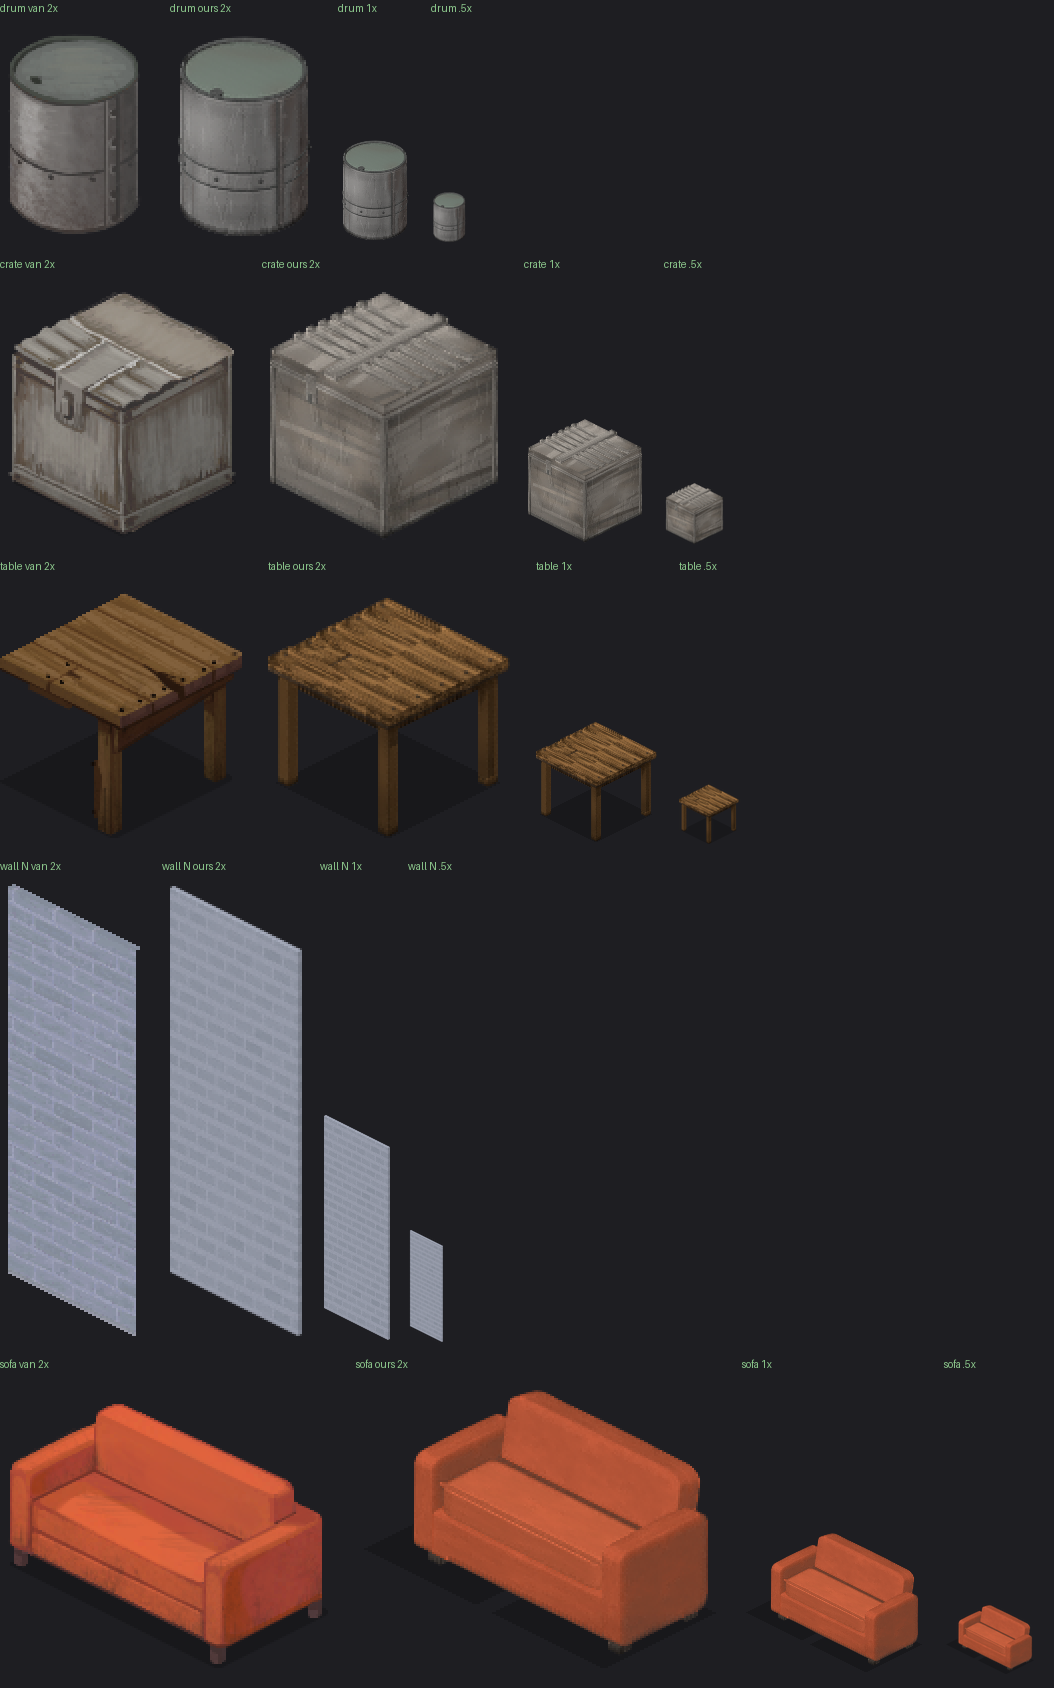
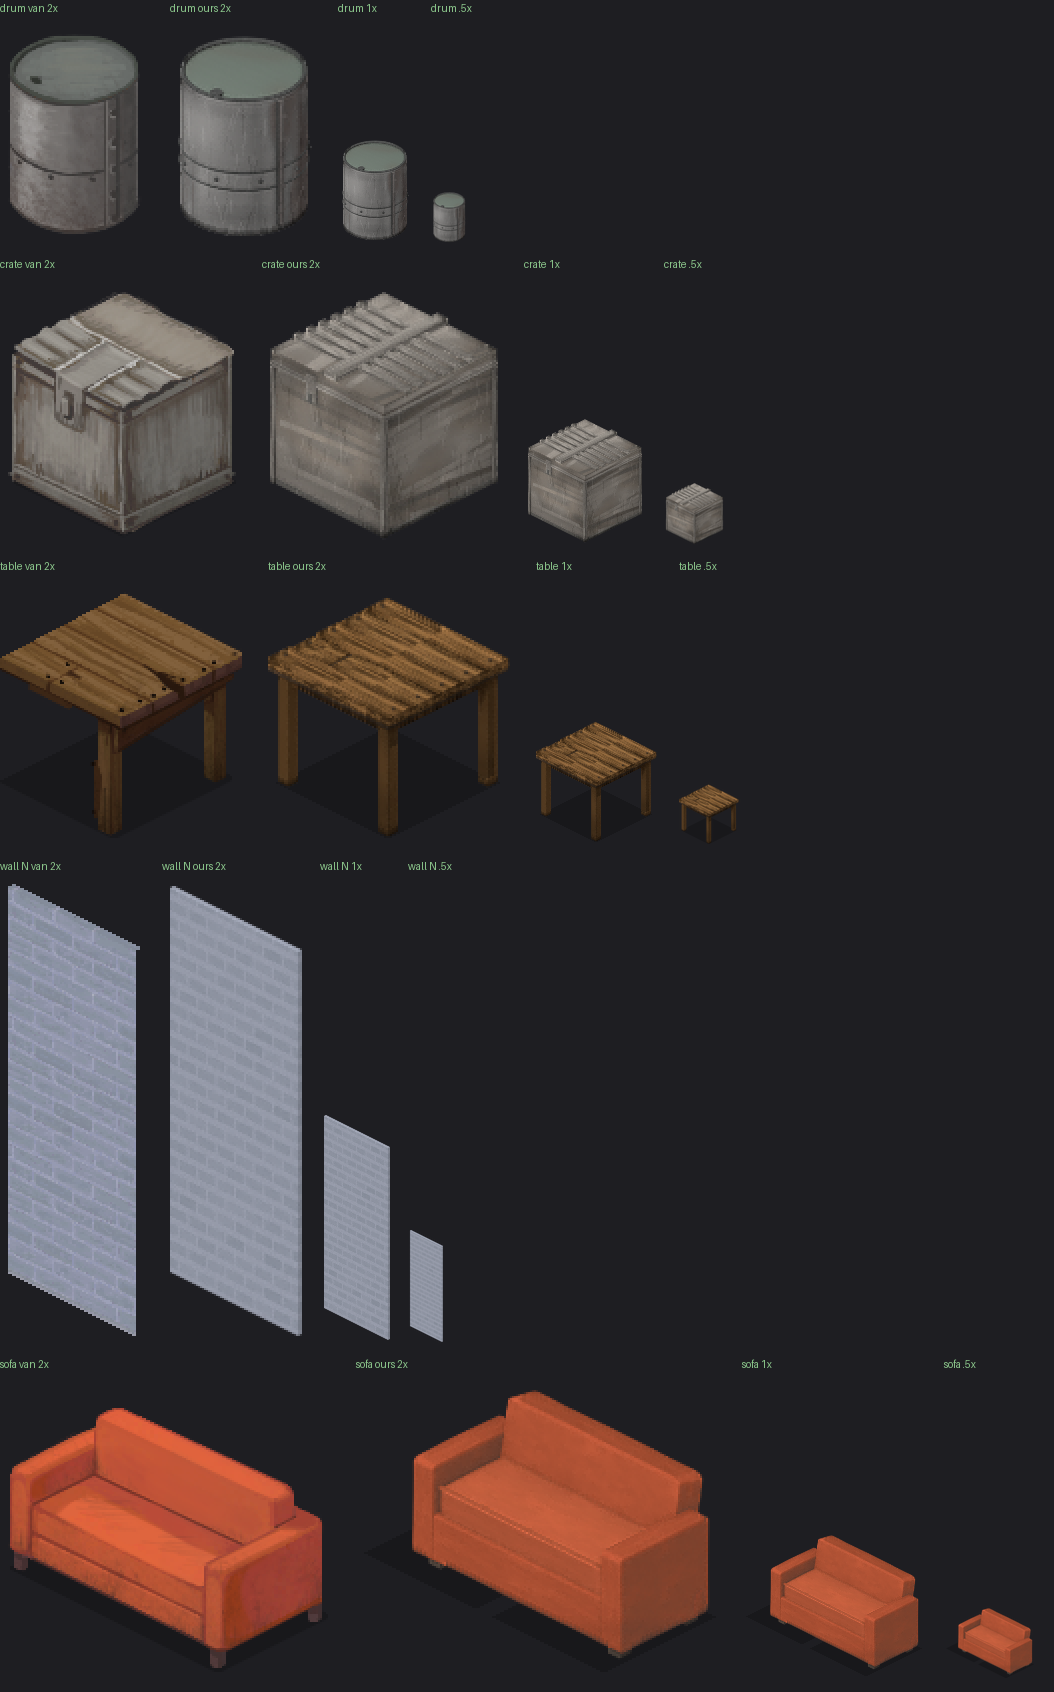
toon ramp: contact-shadow (AO) term -- the missing half of vanilla's shading
The key light stands almost behind the camera's view axis, so its cast
shadows fall away from the sprite; vanilla's corner pockets (a seat beside
its arm measures 0.81x of the open seat, as a soft gradient) are occlusion
shading. The ramp output now multiplies a measured AO term (strength 0.5,
distance 0.7, applied after quantisation so pockets stay gradients), giving
every object the same junction lines plus per-part contact shading.

use_eevee() now applies the EEVEE feature block itself: recipes that build
the rig while the scene is on Cycles skipped it, and without ray tracing
EEVEE silently evaluates the AO node as 1.0. (Blender 5.0 also renamed the
engine back to BLENDER_EEVEE.)

Fidelity holds: drum 1.439 L/R vs vanilla 1.416, crate 1.222 vs 1.210,
open-face medians unchanged. All docs imagery regenerated.

diff --git a/blender/pz_sprite_forge.py b/blender/pz_sprite_forge.py
@@ -518,6 +518,17 @@ TOON_LEVELS = {  # relative to S, in linear light
 TOON_LIT_TINT = (0.984, 1.014, 1.016)
 TOON_SHADE_TINT = (1.016, 0.986, 0.984)
 
+#: Contact-shadow (ambient occlusion) term multiplied onto the ramp output.
+#: The key light stands almost behind the camera's view axis, so its cast
+#: shadows fall AWAY from the camera and barely reach the sprite -- vanilla's
+#: corner pockets (a couch seat beside its arm, the foot of a wall of crates)
+#: are occlusion shading, not key shadows. Measured on the vanilla couch: the
+#: seat beside the arm renders at 0.81x of the open seat, as a soft gradient.
+#: Strength calibrated so a tight corner lands there; open faces read AO~1
+#: and keep their calibrated levels.
+AO_STRENGTH = 0.5
+AO_DISTANCE = 0.7
+
 #: Ramp input positions: captured Shader-to-RGB luminance separating the faces,
 #: measured with tools/calibrate_toon.py under the default rig (EEVEE): ambient
 #: alone reads 0.101 on every orientation, E 0.232, S 0.369, top 0.399. Each stop
@@ -609,11 +620,28 @@ def toon_ramp_group(soft: bool = False, levels: dict | None = None,
         element.position = pos
         element.color = col
 
+    # Contact shading: the ramp output darkens toward tight corners by the
+    # measured pocket factor. Applied AFTER quantisation so the pocket is the
+    # soft gradient vanilla paints, not a level jump.
+    ao = nodes.new("ShaderNodeAmbientOcclusion")
+    ao.inputs["Distance"].default_value = AO_DISTANCE
+    ao_scale = nodes.new("ShaderNodeMath")
+    ao_scale.operation = "MULTIPLY_ADD"
+    ao_scale.inputs[1].default_value = AO_STRENGTH
+    ao_scale.inputs[2].default_value = 1.0 - AO_STRENGTH
+    pocket = nodes.new("ShaderNodeMix")
+    pocket.data_type = "RGBA"
+    pocket.blend_type = "MULTIPLY"
+    pocket.inputs["Factor"].default_value = 1.0
+
     out = nodes.new("NodeGroupOutput")
     links.new(diffuse.outputs["BSDF"], capture.inputs["Shader"])
     links.new(capture.outputs["Color"], luminance.inputs["Color"])
     links.new(luminance.outputs["Val"], ramp.inputs["Fac"])
-    links.new(ramp.outputs["Color"], out.inputs["Light"])
+    links.new(ao.outputs["AO"], ao_scale.inputs[0])
+    links.new(ramp.outputs["Color"], pocket.inputs["A"])
+    links.new(ao_scale.outputs["Value"], pocket.inputs["B"])
+    links.new(pocket.outputs["Result"], out.inputs["Light"])
     return group
 
 
@@ -811,14 +839,30 @@ def toon_material(name: str, paint=None, texture_path=None, dark=None, light=Non
 
 
 def use_eevee(scene) -> None:
-    """Toon shading needs Shader to RGB, which only EEVEE evaluates."""
+    """Toon shading needs Shader to RGB, which only EEVEE evaluates.
+
+    The EEVEE feature block is (re)applied here, not only in
+    apply_render_settings: recipes often build the rig while the scene is
+    still on Cycles, and without ray tracing EEVEE Next silently evaluates
+    the Ambient Occlusion node -- the ramp's contact-shadow term -- as 1.0.
+    """
     for engine in ("BLENDER_EEVEE_NEXT", "BLENDER_EEVEE"):
         try:
             scene.render.engine = engine
-            return
+            break
         except TypeError:
             continue
-    raise RuntimeError("no EEVEE engine available for toon shading")
+    else:
+        raise RuntimeError("no EEVEE engine available for toon shading")
+    ev = getattr(scene, "eevee", None)
+    if ev is not None:
+        for attr, value in (("taa_render_samples", 64),
+                            ("use_gtao", True),
+                            ("use_raytracing", True),
+                            ("use_shadows", True),
+                            ("use_fast_gi", True)):
+            if hasattr(ev, attr):
+                setattr(ev, attr, value)
 
 
 def _light_pass_material():
